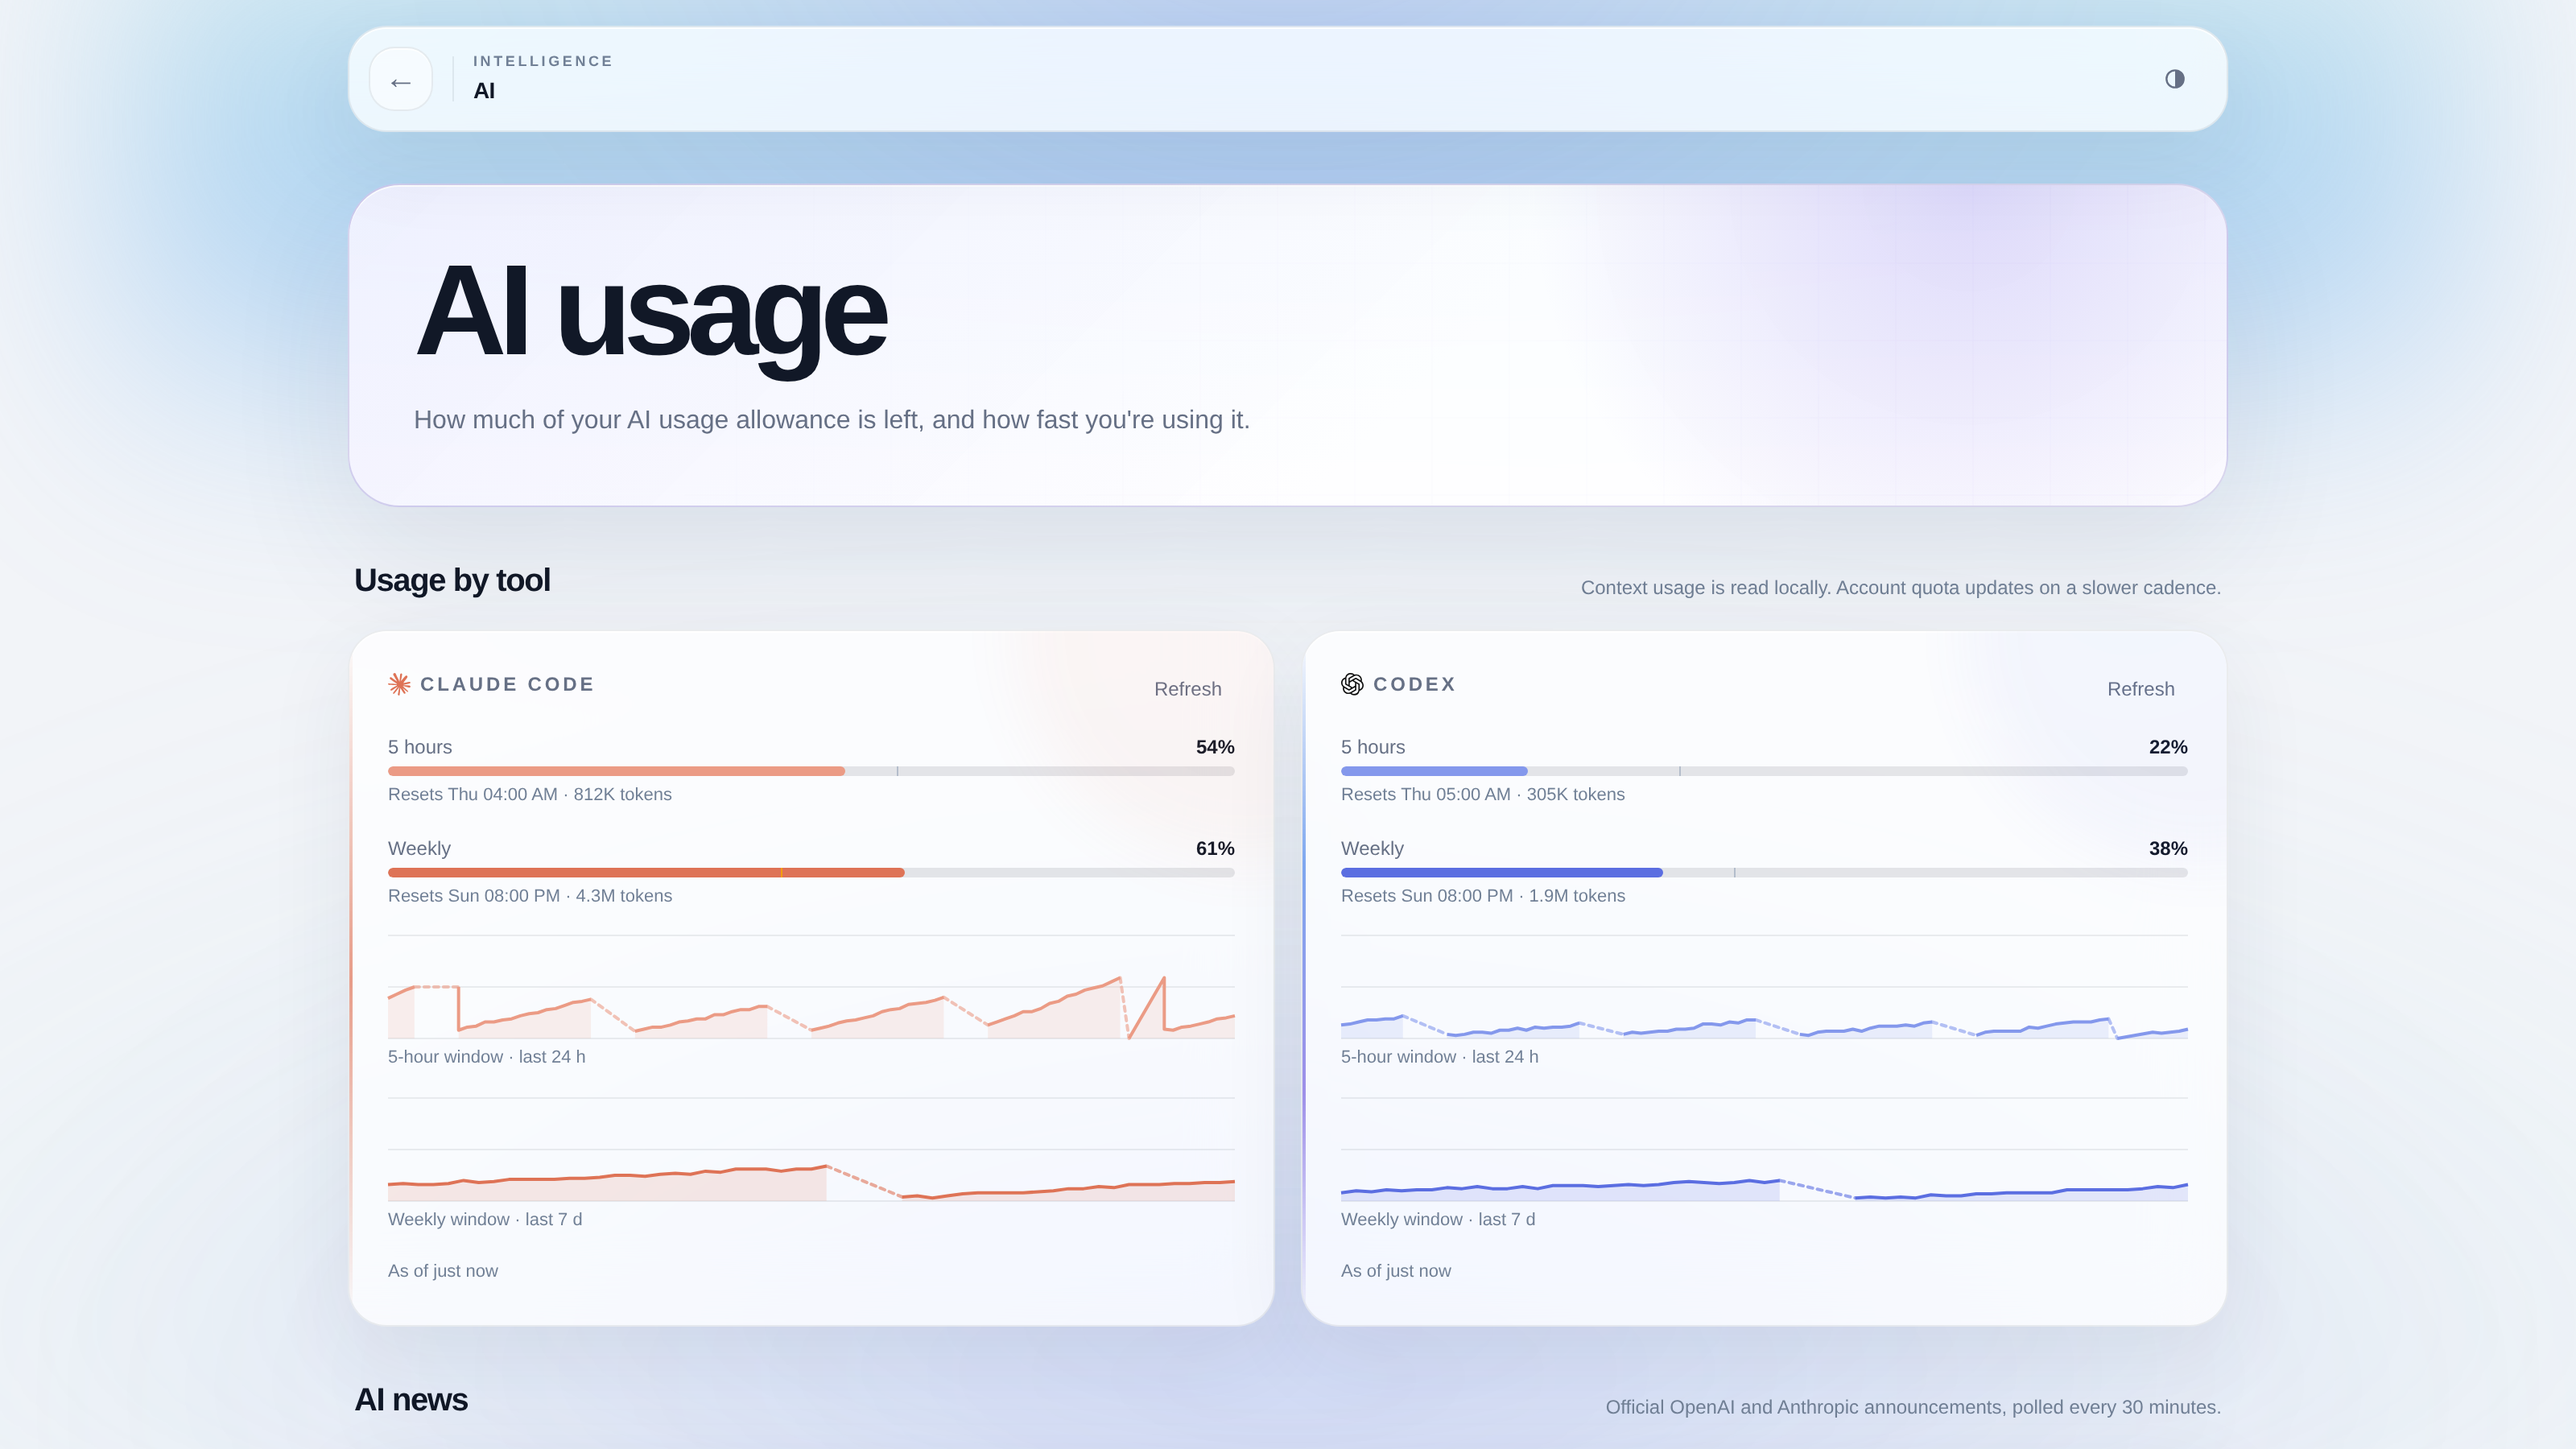
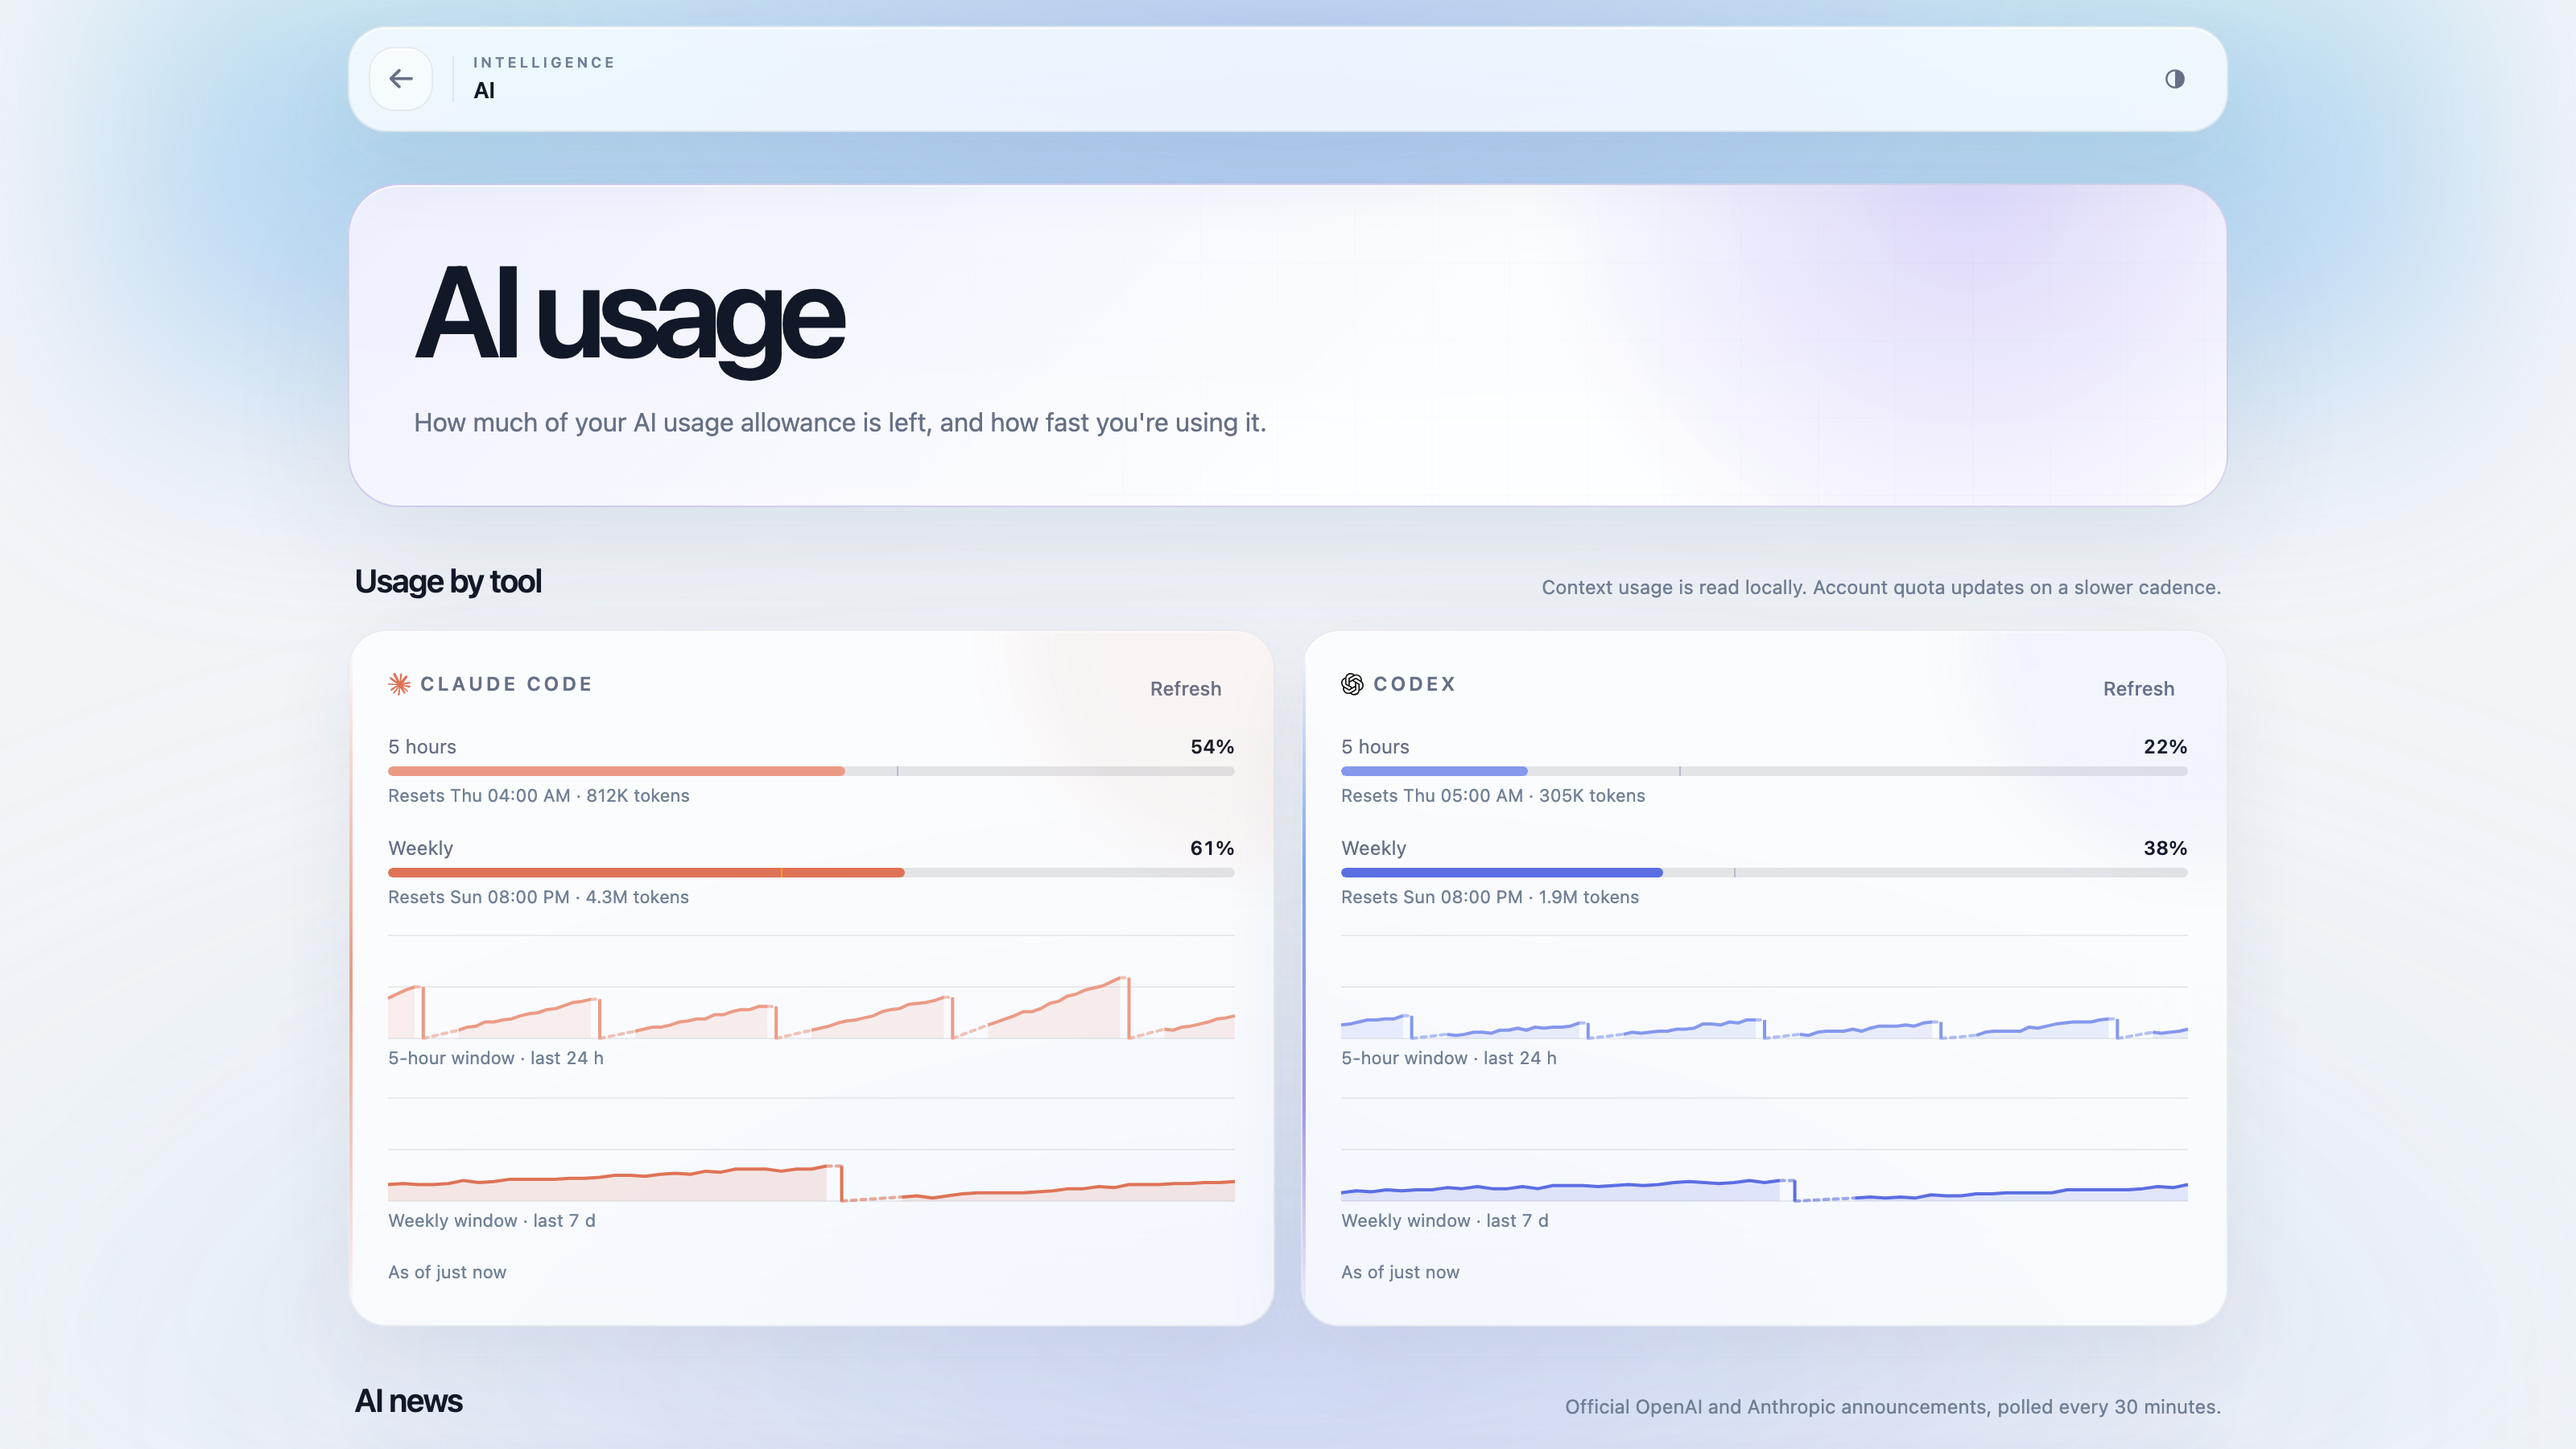
fix: correct overview screenshot signals

diff --git a/server/scripts/screenshotFixtures.ts b/server/scripts/screenshotFixtures.ts
@@ -12,6 +12,7 @@ import type {
   GmailData,
   HealthData,
   SpotifyData,
+  SteamData,
   WeatherData,
 } from '@personal-dashboard/shared';
 import {
@@ -83,17 +84,17 @@ export function weather(now: Date): WeatherData {
   return {
     location: { lat: 40.71, lon: -74.01, name: 'New York' },
     current: {
-      temperature: 18, windSpeed: 2.6, windDirectionDeg: 224, humidity: 58, uvIndex: 4.2,
+      temperature: 18, windSpeed: 2.6, windDirectionDeg: 224, humidity: 58, uvIndex: 8.2,
       precipitationMm: 0, symbol: 'partlycloudy_day',
     },
     hours: [
-      { time: iso(now, 1), hourLabel: '14', temperature: 18, precipitationMm: 0, uvIndex: 4.2, symbol: 'partlycloudy_day' },
-      { time: iso(now, 2), hourLabel: '15', temperature: 19, precipitationMm: 0, uvIndex: 4.6, symbol: 'clearsky_day' },
-      { time: iso(now, 3), hourLabel: '16', temperature: 19, precipitationMm: 0, uvIndex: 3.8, symbol: 'clearsky_day' },
-      { time: iso(now, 4), hourLabel: '17', temperature: 17, precipitationMm: 0.1, uvIndex: 2.4, symbol: 'fair_day' },
-      { time: iso(now, 5), hourLabel: '18', temperature: 16, precipitationMm: 0.3, uvIndex: 1.5, symbol: 'lightrain' },
-      { time: iso(now, 6), hourLabel: '19', temperature: 15, precipitationMm: 0.8, uvIndex: 0.7, symbol: 'rain' },
-      { time: iso(now, 7), hourLabel: '20', temperature: 14, precipitationMm: 0.4, uvIndex: 0.2, symbol: 'lightrain' },
+      { time: iso(now, 1), hourLabel: '14', temperature: 18, precipitationMm: 0, uvIndex: 8.2, symbol: 'partlycloudy_day' },
+      { time: iso(now, 2), hourLabel: '15', temperature: 19, precipitationMm: 0, uvIndex: 8.8, symbol: 'clearsky_day' },
+      { time: iso(now, 3), hourLabel: '16', temperature: 19, precipitationMm: 0, uvIndex: 8.1, symbol: 'clearsky_day' },
+      { time: iso(now, 4), hourLabel: '17', temperature: 17, precipitationMm: 0, uvIndex: 6.4, symbol: 'fair_day' },
+      { time: iso(now, 5), hourLabel: '18', temperature: 16, precipitationMm: 0, uvIndex: 4.1, symbol: 'fair_day' },
+      { time: iso(now, 6), hourLabel: '19', temperature: 15, precipitationMm: 0, uvIndex: 1.7, symbol: 'fair_day' },
+      { time: iso(now, 7), hourLabel: '20', temperature: 14, precipitationMm: 0, uvIndex: 0.2, symbol: 'fair_day' },
       { time: iso(now, 8), hourLabel: '21', temperature: 14, precipitationMm: 0, uvIndex: 0, symbol: 'partlycloudy_night' },
       { time: iso(now, 9), hourLabel: '22', temperature: 13, precipitationMm: 0, uvIndex: 0, symbol: 'fair_night' },
       { time: iso(now, 10), hourLabel: '23', temperature: 13, precipitationMm: 0, uvIndex: 0, symbol: 'clearsky_night' },
@@ -101,7 +102,7 @@ export function weather(now: Date): WeatherData {
       { time: iso(now, 12), hourLabel: '01', temperature: 12, precipitationMm: 0, uvIndex: 0, symbol: 'clearsky_night' },
     ].map((hour) => ({ ...hour, date: hour.time.slice(0, 10) })),
     days: [
-      { date: dateDaysAgo(now, 0), dayLabel: weekday(0), minTemperature: 14, maxTemperature: 20, precipitationMm: 0.4, symbol: 'partlycloudy_day' },
+      { date: dateDaysAgo(now, 0), dayLabel: weekday(0), minTemperature: 14, maxTemperature: 20, precipitationMm: 0, maxUvIndex: 8.8, symbol: 'partlycloudy_day' },
       { date: dateDaysAgo(now, -1), dayLabel: weekday(1), minTemperature: 13, maxTemperature: 22, precipitationMm: 0, symbol: 'clearsky_day' },
       { date: dateDaysAgo(now, -2), dayLabel: weekday(2), minTemperature: 15, maxTemperature: 24, precipitationMm: 0, symbol: 'clearsky_day' },
       { date: dateDaysAgo(now, -3), dayLabel: weekday(3), minTemperature: 16, maxTemperature: 21, precipitationMm: 2.8, symbol: 'rainshowers_day' },
@@ -141,9 +142,7 @@ export function overviewCalendar(now: Date): CalendarData {
 export function overviewGithub(now: Date): GitHubData {
   return {
     activity: [], issues: [],
-    pullRequests: [
-      { title: 'Add importance scoring to the command center', repo: 'yourname/personal-dashboard', number: 42, url: '#', role: 'author', draft: false, updatedAt: iso(now, -2) },
-    ],
+    pullRequests: [],
     contributions: {
       total: 512,
       days: [
@@ -157,6 +156,26 @@ export function overviewGithub(now: Date): GitHubData {
       ],
     },
     repoHealth: [],
+  };
+}
+
+export function overviewSteam(): SteamData {
+  const currentGame = {
+    appId: 730,
+    name: 'Counter-Strike 2',
+    headerUrl: 'https://cdn.akamai.steamstatic.com/steam/apps/730/header.jpg',
+    playtimeForeverMinutes: 48_200,
+  };
+  return {
+    profile: { steamId: '00000000000000000', personaName: 'yourname', profileUrl: '#' },
+    currentGame,
+    library: null,
+    recentlyPlayed: [currentGame],
+    achievements: null,
+    friendsInGame: [],
+    playtimeHistory: [],
+    friendsLeaderboard: { status: 'unavailable', entries: [] },
+    availability: { library: 'unavailable', achievements: 'unavailable', friends: 'unavailable' },
   };
 }
 

diff --git a/server/scripts/screenshots.ts b/server/scripts/screenshots.ts
@@ -1,8 +1,7 @@
 // Generates README screenshots against fake, fully-anonymized data (screenshotFixtures.ts): the
 // overview (hero + command center) plus the Spotify, Health, AI usage, and GitHub detail pages.
 // The overview's command-center ranking runs through the *real* scoring code (importance/
-// sources.ts + rank.ts); only two invisible-on-first-paint carousel previews are added to show its
-// affordance. Boots a throwaway
+// sources.ts + rank.ts). Boots a throwaway
 // mock API on :4823, points a scratch Vite client dev server at it, and drives headless Chromium
 // via Playwright to capture each page. Runs both locally (npm run screenshots -w server) and in
 // CI (.github/workflows/screenshots.yml) — Playwright handles browser provisioning on both.
@@ -27,6 +26,7 @@ import {
   healthCandidates,
   imessageCandidates,
   spotifyCandidates,
+  steamCandidates,
   weatherCandidates,
 } from '../src/importance/sources/index.js';
 import {
@@ -39,6 +39,7 @@ import {
   overviewCalendar,
   overviewGithub,
   overviewHealth,
+  overviewSteam,
   weather,
 } from './screenshotFixtures.js';
 
@@ -122,6 +123,7 @@ async function buildPages(): Promise<Page[]> {
   const overviewCalendarFixture = overviewCalendar(overviewNow);
   const overviewGithubFixture = overviewGithub(overviewNow);
   const overviewHealthFixture = overviewHealth(overviewNow);
+  const overviewSteamFixture = overviewSteam();
   const overviewAiClaudeFixture = overviewAiClaude(overviewNow);
   const overviewAiCodexFixture = overviewAiCodex(overviewNow);
   const healthPageFixture = healthFixture(healthNow);
@@ -141,6 +143,7 @@ async function buildPages(): Promise<Page[]> {
       artistAllTime: false,
       albumAllTime: false,
     }, SPOTIFY_RECENT_PLAYED_MAX_AGE_MS),
+    ...steamCandidates(overviewSteamFixture, 24 * 60 * 60_000),
     ...aiCandidates(
       [
         { id: 'claude', label: 'Claude', data: overviewAiClaudeFixture },
@@ -151,23 +154,11 @@ async function buildPages(): Promise<Page[]> {
     ),
     ...fallbackCandidates({ calendar: 'ready' }),
   ]);
-  const nowPlaying = overviewRanked.secondary.find((slot) => slot.id === 'spotify:now-playing');
-  if (!nowPlaying) throw new Error('Overview screenshot requires the now-playing secondary slot');
-  // The overview capture starts on now-playing, but keeps two synthetic, never-initially-visible
-  // previews so the screenshot demonstrates the carousel affordance without claiming real data.
-  const carouselPreviews: CommandCenterSlot[] = [
-    {
-      id: 'screenshot:carousel:preview-1', source: 'screenshot', kind: 'fallback', score: 0,
-      kicker: 'Preview', title: 'Another useful signal', detail: 'Carousel preview for the README screenshot.',
-      href: '#/personal', render: { type: 'text' },
-    },
-    {
-      id: 'screenshot:carousel:preview-2', source: 'screenshot', kind: 'fallback', score: 0,
-      kicker: 'Preview', title: 'One more useful signal', detail: 'Carousel preview for the README screenshot.',
-      href: '#/personal', render: { type: 'text' },
-    },
-  ];
-  const overviewCommandCenter = { ...overviewRanked, secondary: [nowPlaying, ...carouselPreviews] };
+  const expectedSecondaryIds = ['spotify:now-playing', 'steam:now-playing:730', 'weather:uv'];
+  if (overviewRanked.secondary.map((slot) => slot.id).join(',') !== expectedSecondaryIds.join(',')) {
+    throw new Error('Overview screenshot requires Spotify, Steam, and high-UV secondary cards');
+  }
+  const overviewCommandCenter = overviewRanked;
 
   return [
     {
@@ -176,6 +167,7 @@ async function buildPages(): Promise<Page[]> {
         'command-center': envelope(overviewCommandCenter, overviewNow),
         calendar: envelope(overviewCalendarFixture, overviewNow),
         weather: envelope(overviewWeatherFixture, overviewNow),
+        steam: envelope(overviewSteamFixture, overviewNow),
         github: envelope(overviewGithubFixture, overviewNow),
         health: envelope(overviewHealthFixture, overviewNow),
         spotify: envelope(fixtures.spotifyOverview, overviewNow),

diff --git a/shared/src/fixtureHelpers.ts b/shared/src/fixtureHelpers.ts
@@ -229,11 +229,12 @@ export function healthDayFor(now: Date, daysAgo: number, rng: () => number): Hea
 
 // ── AI usage (Claude / Codex) ────────────────────────────────────────────────────────────────
 
-/** Rolling-window usage climbs after each reset and falls back at the next one. Rather than
- * hand-smoothing the drop itself, this leaves a real gap in the data spanning each reset — the
- * client's chart already renders a spacing gap (>3x the median step) as a dashed line instead of
- * a solid one, exactly the "this just reset" signal a real dashboard shows during a sampling gap,
- * and cleaner than an artificial vertical line ever looks. */
+/** Rolling-window usage climbs after each reset and falls back at the next one. This leaves a
+ * real gap in the data spanning each reset (the client's chart already renders a spacing gap
+ * as a dashed line), but also stamps each point with its own cycle's reset deadline — the same
+ * per-sample field a real provider report carries — so the client's reset-anchor logic can draw
+ * the flat pre-reset hold and vertical drop it draws for real data, instead of a raw diagonal
+ * straight across the gap. */
 export interface SawtoothHistoryOptions {
   resetsAtIso: string;
   periodMs: number;
@@ -242,6 +243,7 @@ export interface SawtoothHistoryOptions {
   peakRange: [number, number];
   rng: () => number;
   field: 'fiveHourUsedPercent' | 'weeklyUsedPercent';
+  resetField: 'fiveHourResetsAt' | 'weeklyResetsAt';
   gapSteps: number;
   now: number;
 }
@@ -254,6 +256,7 @@ export function sawtoothHistory({
   peakRange,
   rng,
   field,
+  resetField,
   gapSteps,
   now,
 }: SawtoothHistoryOptions): AiUsageToolData['history'] {
@@ -271,7 +274,12 @@ export function sawtoothHistory({
     if (msIntoWindow < gapSteps * stepMs) continue;
     const fraction = Math.min(1, msIntoWindow / periodMs);
     const percent = Math.max(0, Math.min(100, fraction * peakFor(cycle) + (rng() - 0.5) * 3));
-    points.push({ at: new Date(t).toISOString(), [field]: Math.round(percent) });
+    const cycleReset = lastReset + periodMs;
+    points.push({
+      at: new Date(t).toISOString(),
+      [field]: Math.round(percent),
+      [resetField]: new Date(cycleReset).toISOString(),
+    });
   }
   return points;
 }
@@ -286,12 +294,12 @@ export function usageHistoryFor(
   const fiveHourPoints = sawtoothHistory({
     resetsAtIso: fiveHour.resetsAt, periodMs: 5 * 3_600_000, spanMs: 24 * 3_600_000,
     stepMs: 15 * 60_000, peakRange: [fiveHour.usedPercent * 0.6, Math.min(100, fiveHour.usedPercent * 1.15)],
-    rng, field: 'fiveHourUsedPercent', gapSteps: 4, now,
+    rng, field: 'fiveHourUsedPercent', resetField: 'fiveHourResetsAt', gapSteps: 4, now,
   });
   const weeklyPoints = sawtoothHistory({
     resetsAtIso: weekly.resetsAt, periodMs: 7 * 86_400_000, spanMs: 7 * 86_400_000,
     stepMs: 3 * 3_600_000, peakRange: [weekly.usedPercent * 0.5, Math.min(100, weekly.usedPercent * 1.1)],
-    rng, field: 'weeklyUsedPercent', gapSteps: 4, now,
+    rng, field: 'weeklyUsedPercent', resetField: 'weeklyResetsAt', gapSteps: 4, now,
   });
   return [...fiveHourPoints, ...weeklyPoints].sort((a, b) => Date.parse(a.at) - Date.parse(b.at));
 }
